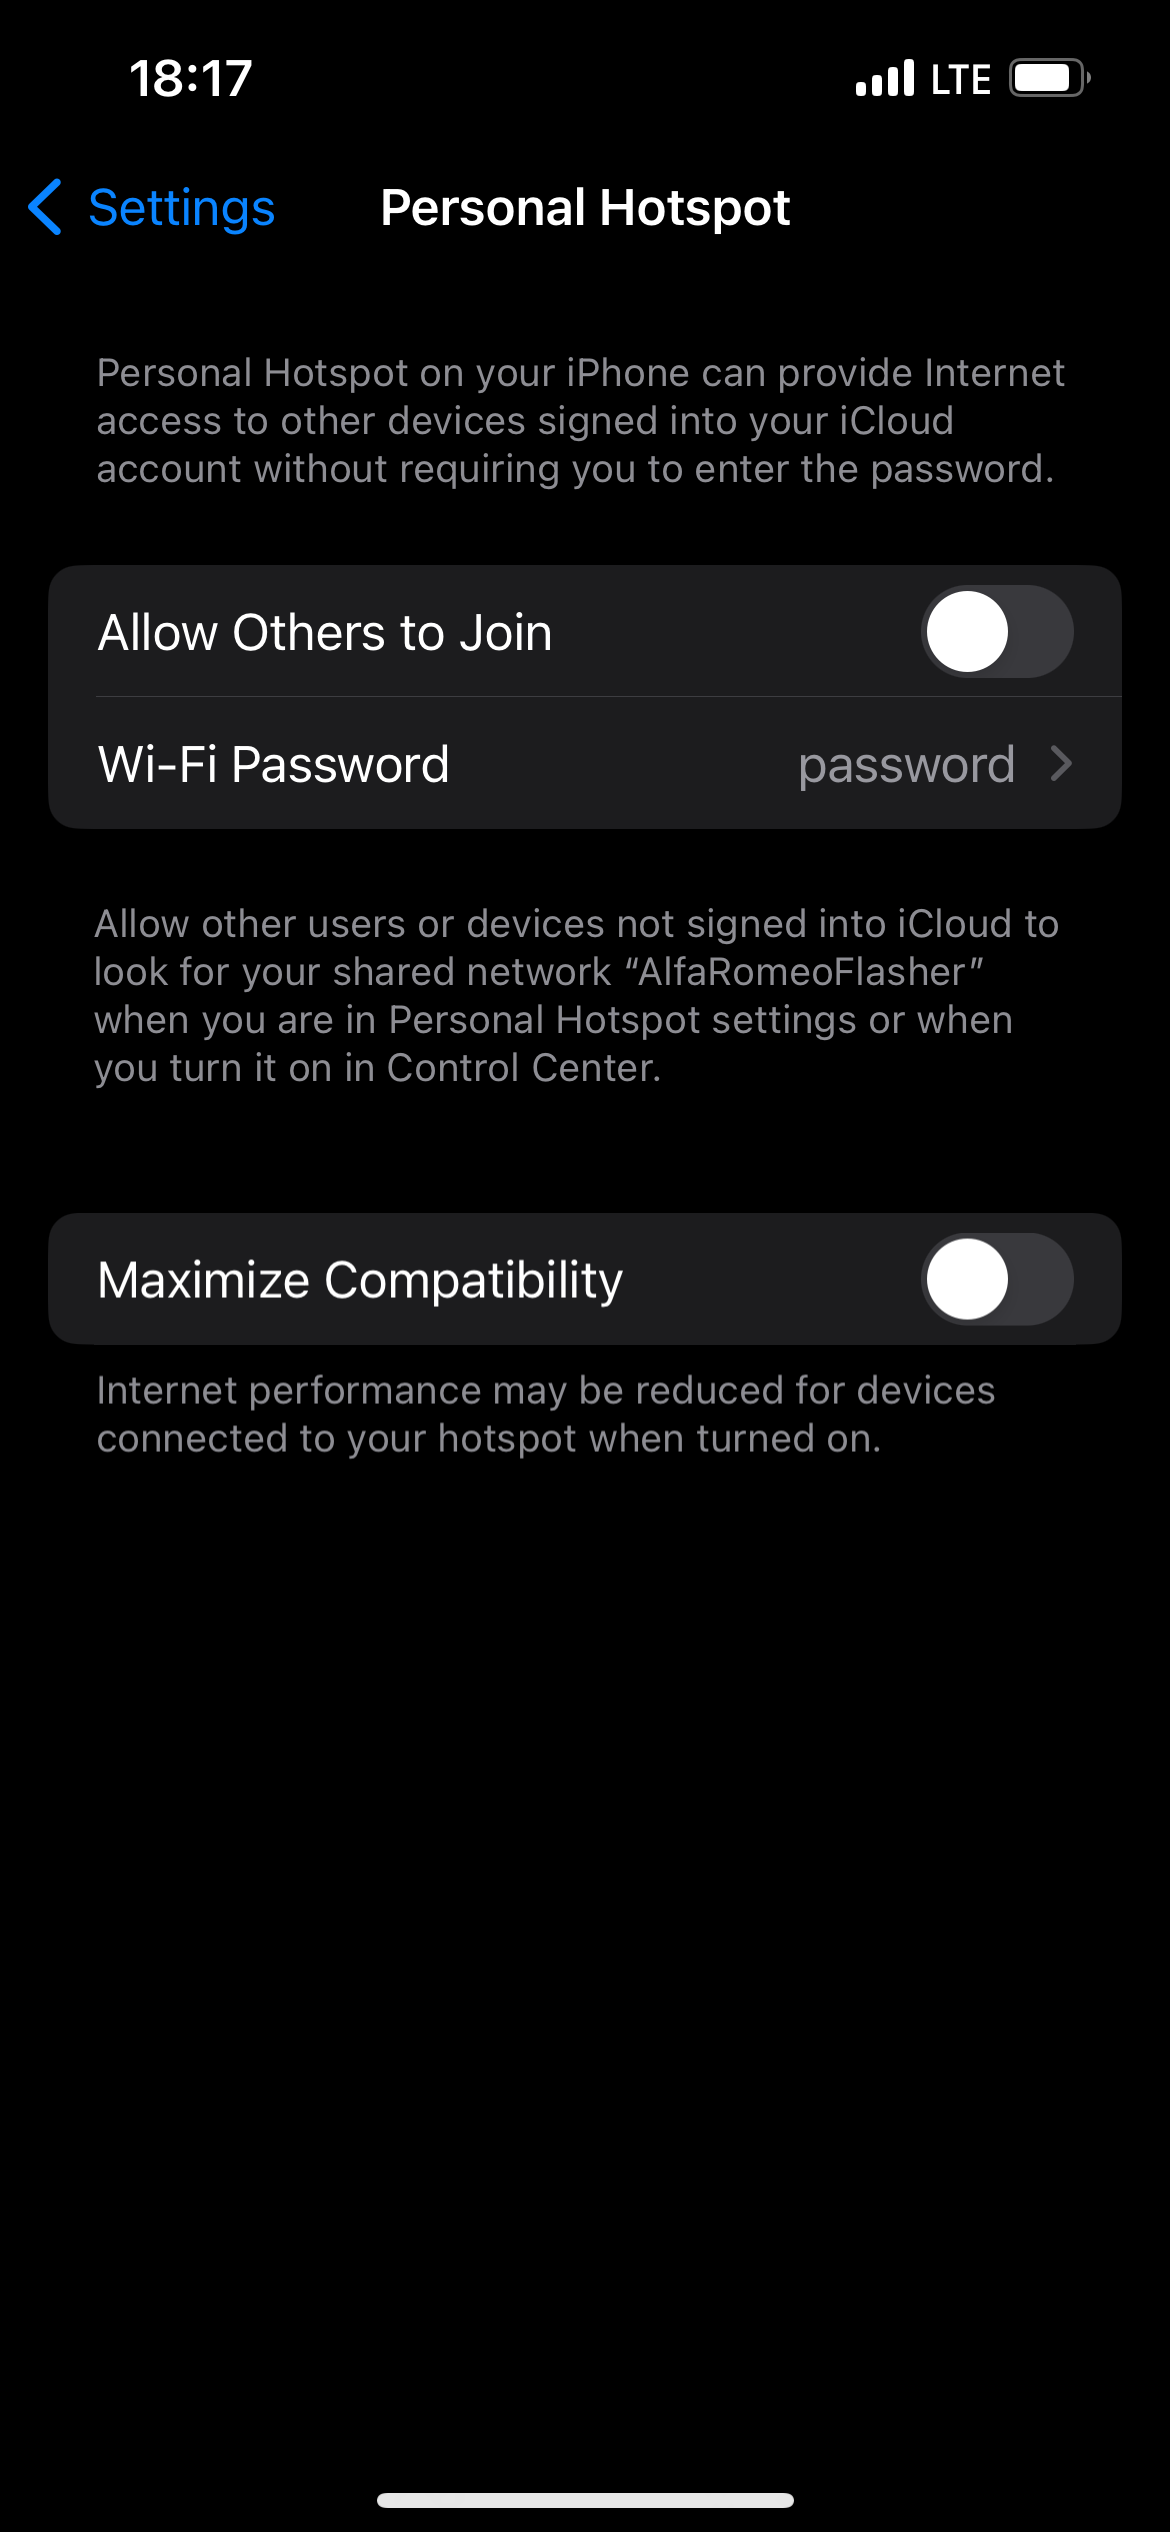
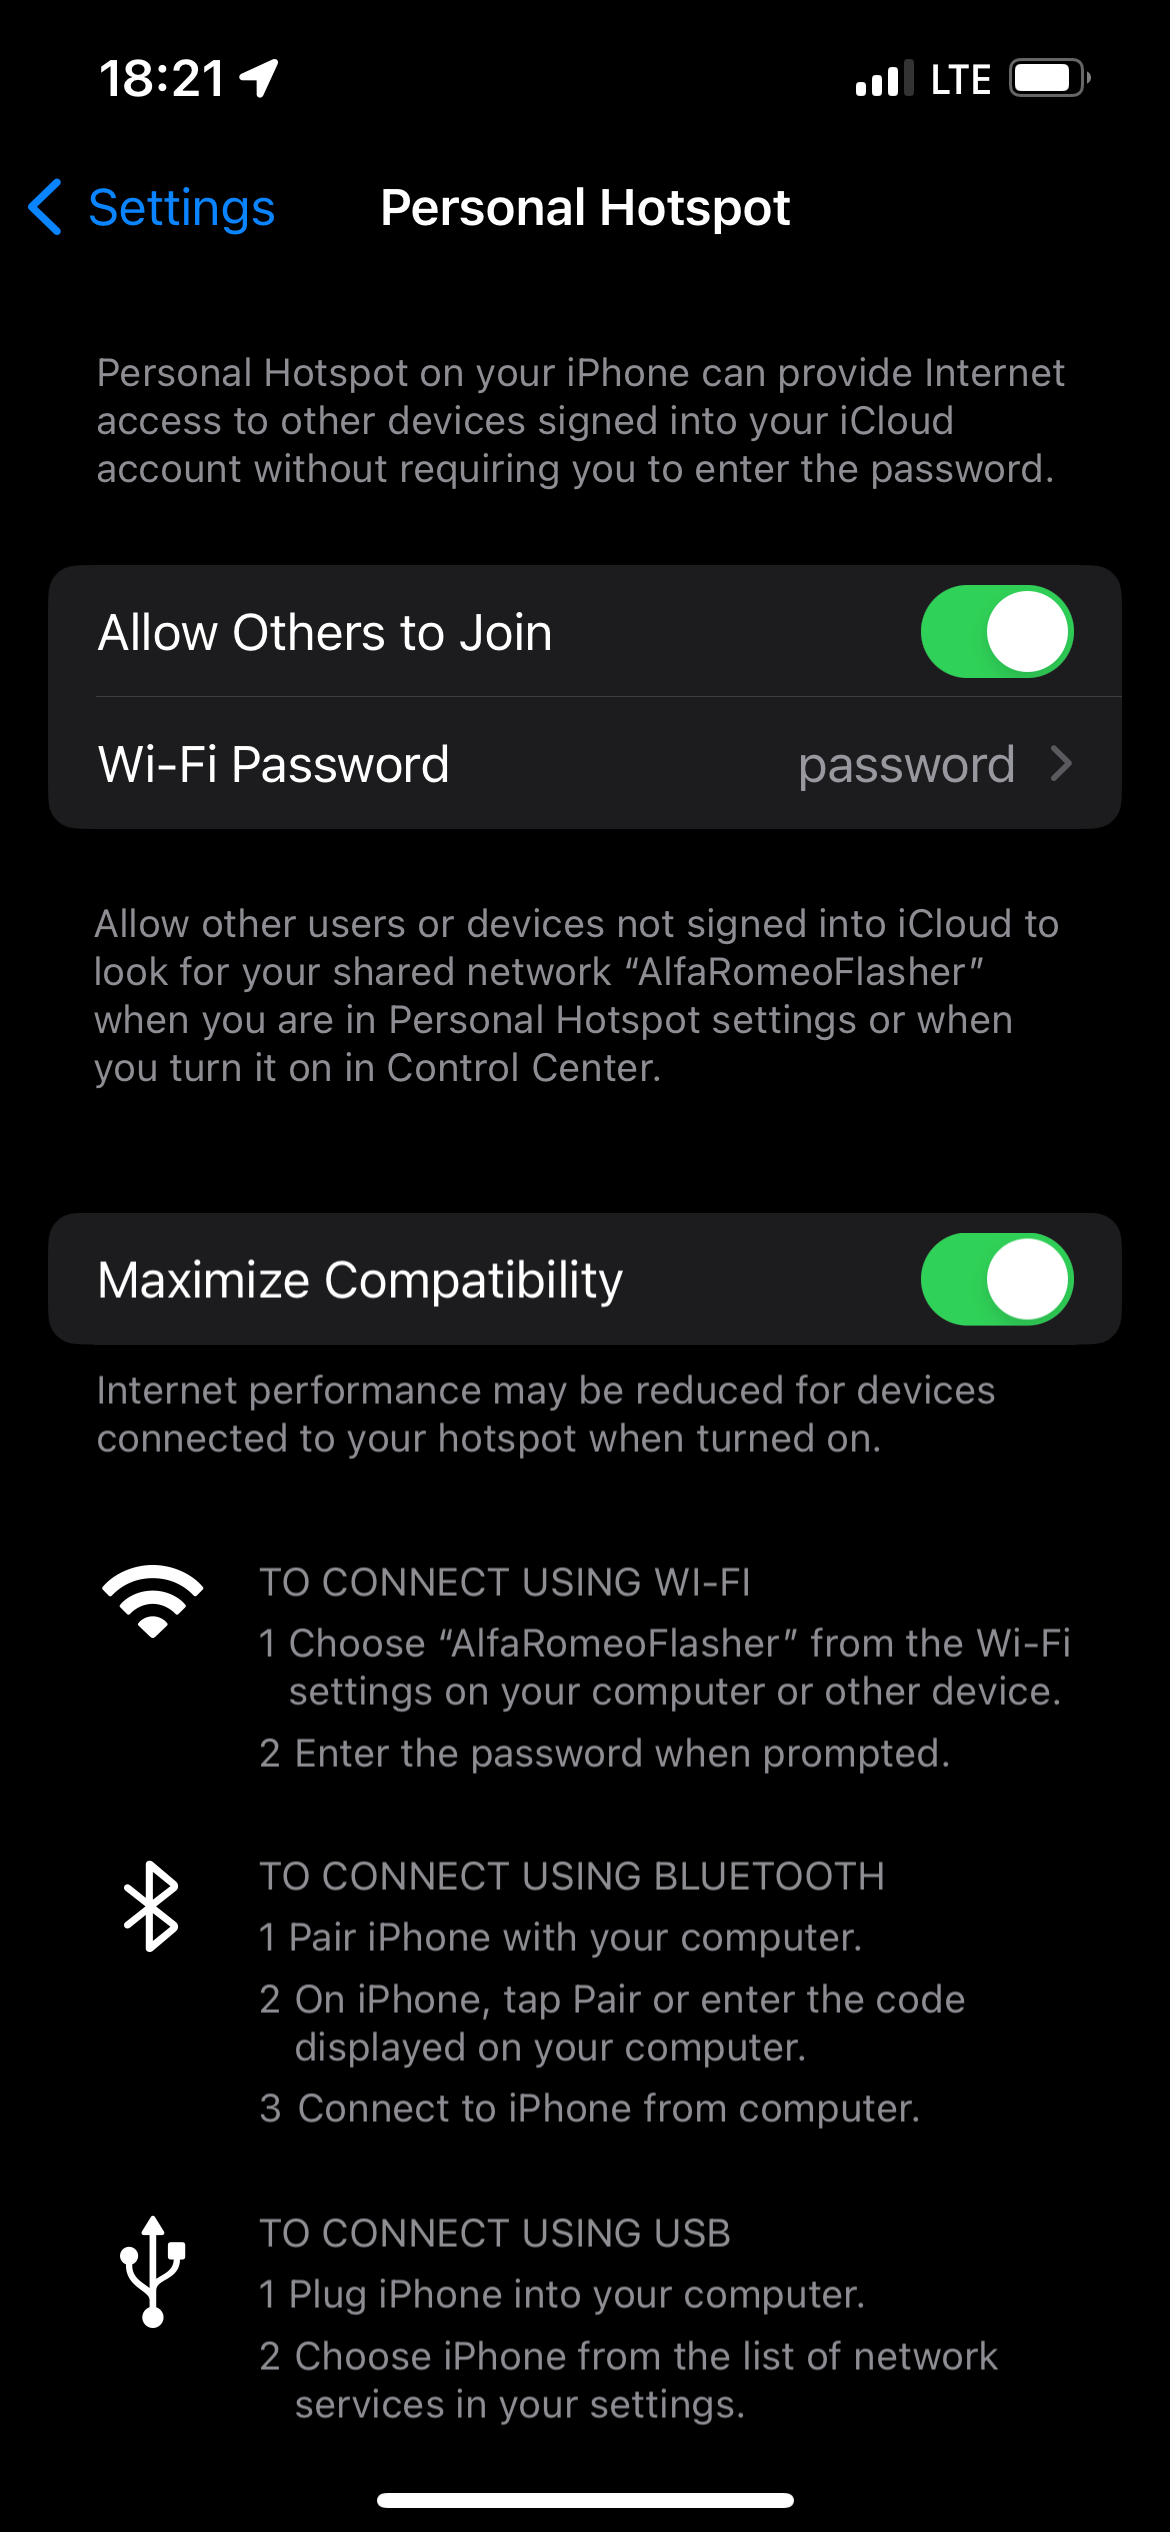
update

diff --git a/src/components/product/Product.jsx b/src/components/product/Product.jsx
@@ -7,7 +7,7 @@ import { Helmet } from 'react-helmet';
 function Product() {
     const [fullView, setFullView] = React.useState(true);
     const uA = navigator.userAgent || navigator.vendor || window.opera;
-    console.log((/iPad|iPhone|iPod/.test(uA) && !window.MSStream) || (uA.includes('Mac') && 'ontouchend' in document));
+
     return (<div id="product-page">
         <Helmet>
             <title>Product Alfa Tuning</title>
